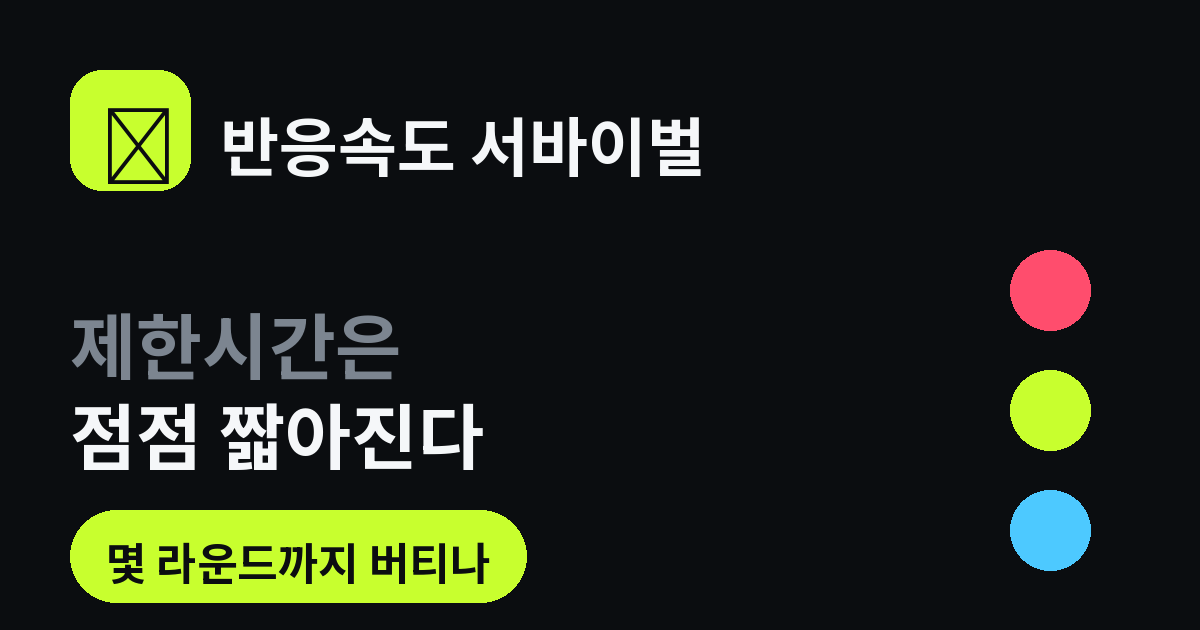
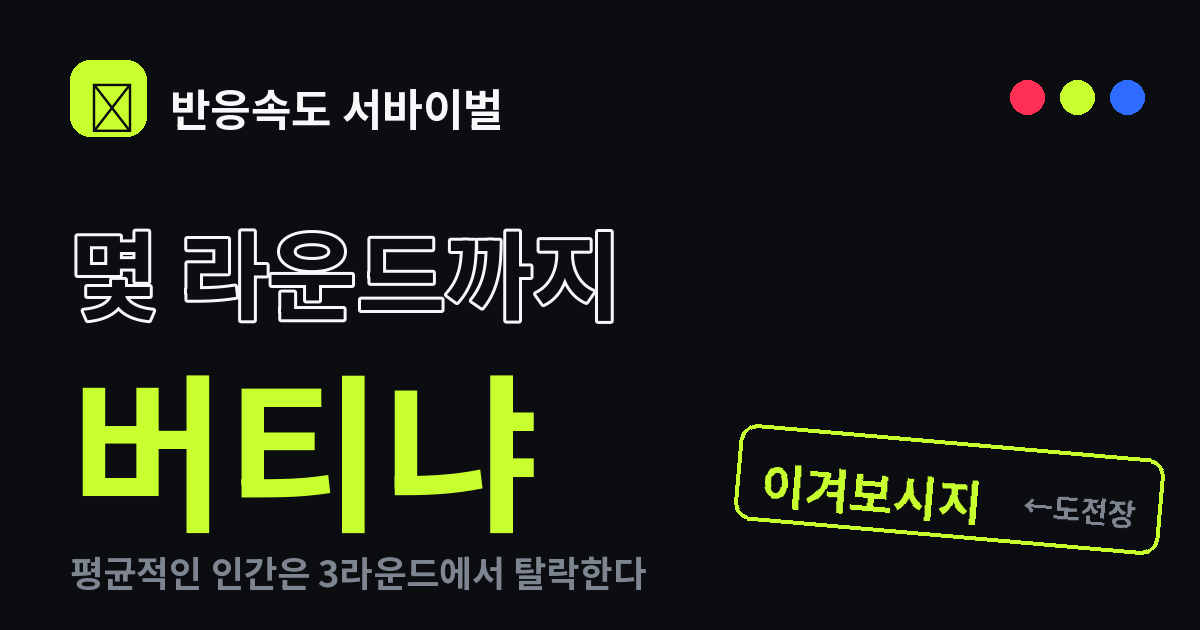
게임·결과 화면 비비드 리디자인 + 썸네일 재제작
- 게임 상태를 풀스크린 비비드 컬러로: 대기 빨강(#ff2e54), 지금 라임 전체, 페이크 파랑(#2e6bff)
- 타이포 전면 확대: 상태 문구 4.6rem, 안내문 1rem/700, HUD·결과 점수·소견 확대
- 썸네일(og.png)을 홈 포스터와 동일한 결(아웃라인+라임 버티냐+스티커)로 재제작

diff --git a/index.html b/index.html
@@ -62,38 +62,38 @@
   }
   .startBar:active { transform:scale(0.985); }
 
-  /* 게임 */
+  /* 게임: 풀스크린 컬러 스테이트 */
   #stage {
     flex:1; display:flex; flex-direction:column; align-items:center; justify-content:center;
-    text-align:center; cursor:pointer; border-radius:24px; background:#15181d;
-    padding:24px; min-height:0; transition:background 0.06s;
+    text-align:center; cursor:pointer; border-radius:28px; background:#15181d;
+    padding:24px; min-height:0; transition:background 0.05s;
   }
-  #stage.waiting { background:#2b0f18; }
+  #stage.waiting { background:#ff2e54; }
   #stage.ready   { background:#c8ff2e; }
-  #stage.fake    { background:#0f2233; }
-  #stage.early   { background:#2b2410; }
-  #stage h2 { font-size:1.4rem; font-weight:800; line-height:1.5; letter-spacing:-0.02em; }
+  #stage.fake    { background:#2e6bff; }
+  #stage h2 { font-size:1.6rem; font-weight:900; line-height:1.4; letter-spacing:-0.03em; }
+  #stage.waiting h2 { color:#fff; }
+  #stage.fake h2 { color:#fff; }
   #stage.ready h2, #stage.ready p { color:#0b0d10; }
-  #stage .huge { font-size:3.4rem; font-weight:900; letter-spacing:-0.04em; }
-  #stage.waiting .huge { color:#ff4d6d; }
-  #stage.fake h2 { color:#4dc9ff; }
-  #stage p { margin-top:12px; font-size:0.82rem; color:#9aa3ad; line-height:1.8; font-weight:500; }
-  #stage.waiting p { color:#c99; }
-  #stage .ms { font-variant-numeric:tabular-nums; }
-  #hud { display:flex; justify-content:space-between; font-size:0.78rem; color:#7c8590; padding:10px 6px 0; min-height:1.7em; font-weight:700; font-variant-numeric:tabular-nums; }
+  #stage .huge { font-size:4.6rem; font-weight:900; letter-spacing:-0.05em; }
+  #stage p { margin-top:14px; font-size:1rem; color:#9aa3ad; line-height:1.7; font-weight:700; }
+  #stage.waiting p { color:rgba(255,255,255,0.85); }
+  #stage.fake p { color:rgba(255,255,255,0.85); }
+  #stage .ms { font-variant-numeric:tabular-nums; color:#c8ff2e; }
+  #hud { display:flex; justify-content:space-between; font-size:0.92rem; color:#7c8590; padding:12px 8px 0; min-height:1.8em; font-weight:800; font-variant-numeric:tabular-nums; }
   #hud .val { color:#c8ff2e; }
 
   /* 결과 */
   #result { overflow-y:auto; }
   .frame { border-radius:24px; background:#15181d; padding:24px 18px; text-align:center; }
   .tierChip {
-    display:inline-block; padding:8px 18px; border-radius:999px; background:rgba(200,255,46,0.12);
-    color:#c8ff2e; font-size:0.9rem; font-weight:800;
+    display:inline-block; padding:10px 22px; border-radius:999px; background:rgba(200,255,46,0.14);
+    color:#c8ff2e; font-size:1.05rem; font-weight:900;
   }
-  .score { font-size:3.6rem; font-weight:900; margin-top:14px; letter-spacing:-0.04em; font-variant-numeric:tabular-nums; }
-  .score small { font-size:1.05rem; color:#7c8590; font-weight:700; letter-spacing:0; }
-  .pct { margin-top:8px; font-size:0.9rem; color:#9aa3ad; line-height:1.7; font-weight:600; }
-  .roast { margin-top:16px; font-size:0.85rem; color:#c8cfd8; line-height:1.8; font-weight:500;
+  .score { font-size:4.6rem; font-weight:900; margin-top:12px; letter-spacing:-0.05em; font-variant-numeric:tabular-nums; }
+  .score small { font-size:1.15rem; color:#7c8590; font-weight:800; letter-spacing:-0.01em; }
+  .pct { margin-top:8px; font-size:1rem; color:#c8cfd8; line-height:1.7; font-weight:700; }
+  .roast { margin-top:16px; font-size:0.95rem; color:#9aa3ad; line-height:1.8; font-weight:600;
     border-top:1px solid #232830; padding-top:14px; }
   #verdict { display:none; margin-top:14px; padding:14px; border-radius:16px; font-size:0.9rem; line-height:1.7; font-weight:700; }
   #verdict.win  { color:#c8ff2e; background:rgba(200,255,46,0.1); }
